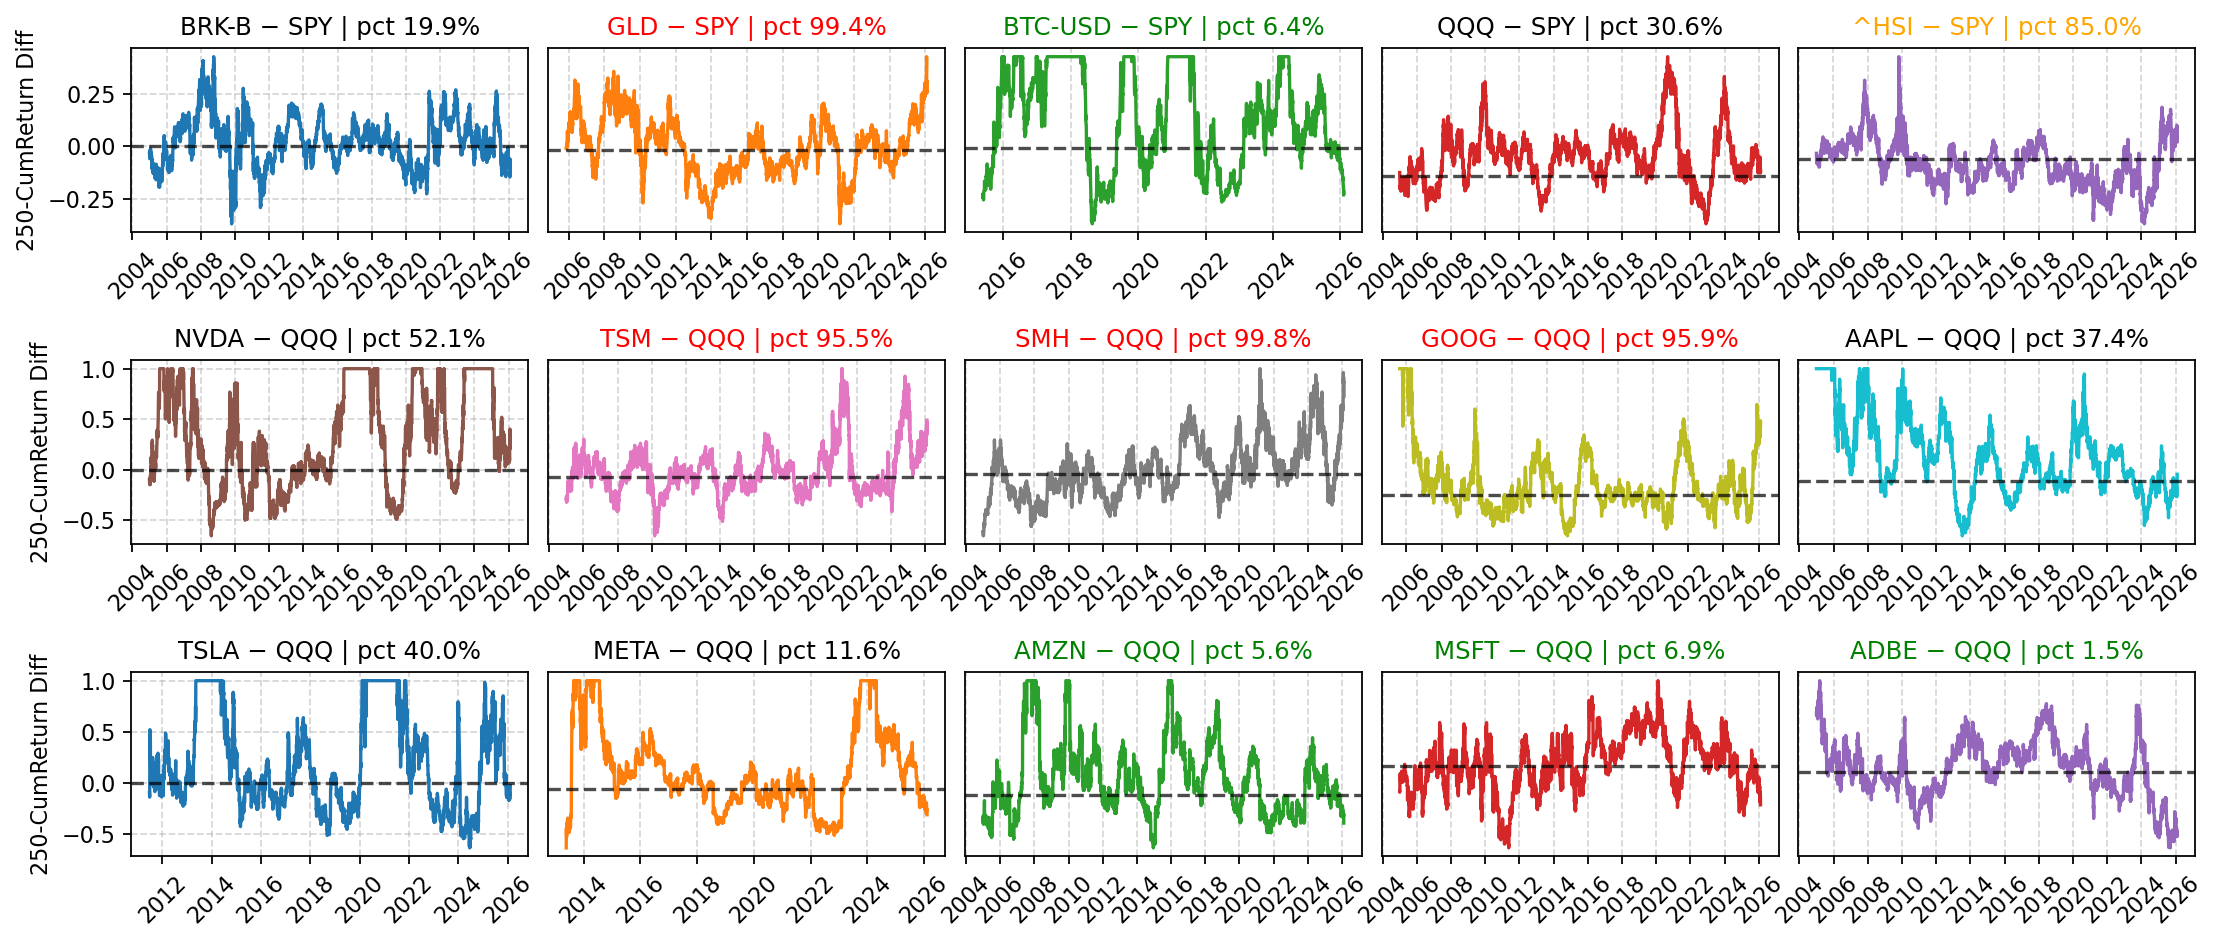
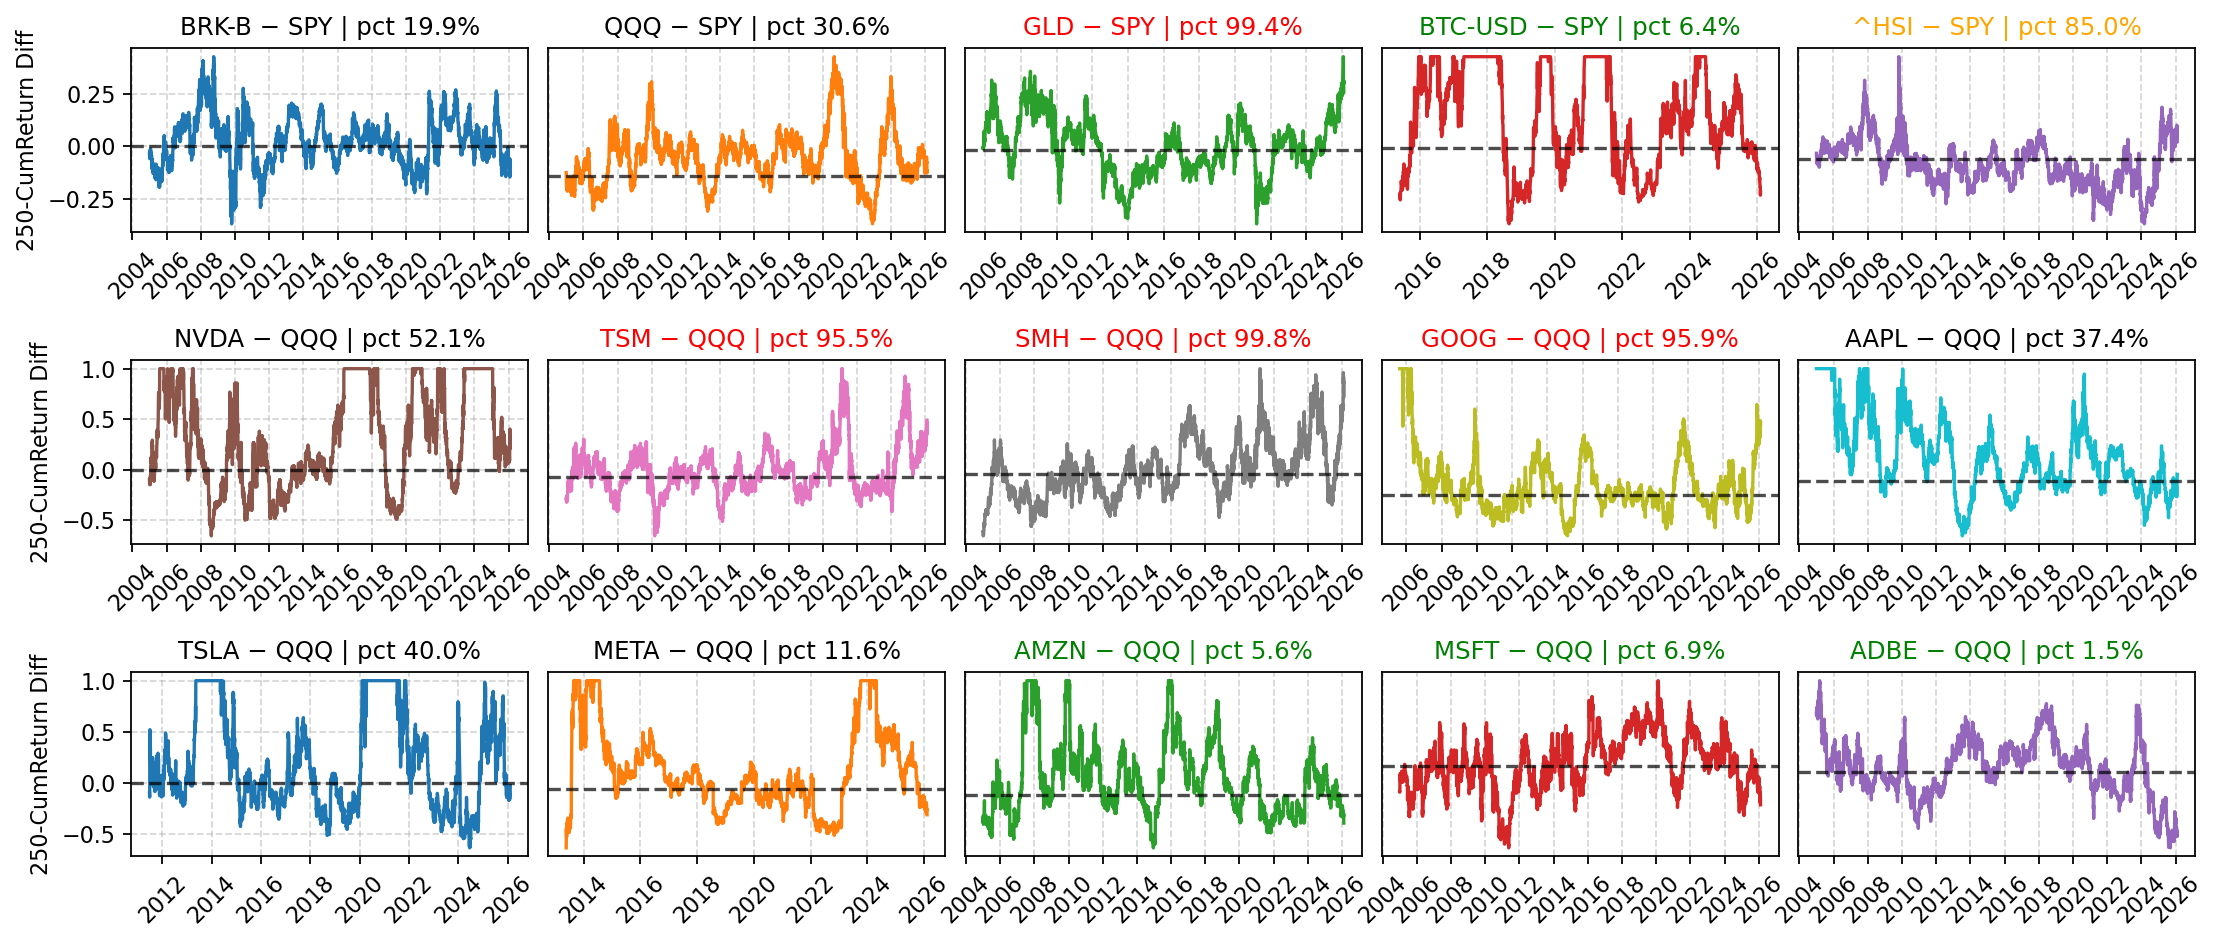
.

Changed region(s): [[0.2177, 0.0, 0.8085, 0.3379]]

diff --git a/docs/index.html b/docs/index.html
@@ -12,7 +12,7 @@
 </head>
 <body>
   <h1>Rolling Pair Diffs (250-day)</h1>
-  <div class="meta">Last updated: 2026-02-08 16:22 UTC</div>
+  <div class="meta">Last updated: 2026-02-08 16:29 UTC</div>
   <p><img src="rolling_pairs.png" alt="rolling pairs figure"></p>
   <div class="note">
     Data via <code>yfinance</code>. Figure regenerates daily via GitHub Actions.

diff --git a/auto_macro_pair_monitor.py b/auto_macro_pair_monitor.py
@@ -21,9 +21,9 @@ WINDOW = 250  # rolling window size (e.g., 250 trading days ≈ 1 year)
 
 PAIRS = [
     ('BRK-B', 'SPY'),    
+    ('QQQ', 'SPY'),
     ('GLD', 'SPY'),      
     ('BTC-USD', 'SPY'),  
-    ('QQQ', 'SPY'),      
     ('^HSI', 'SPY'),      
     ('NVDA', 'QQQ'),     
     ('TSM', 'QQQ'),      
